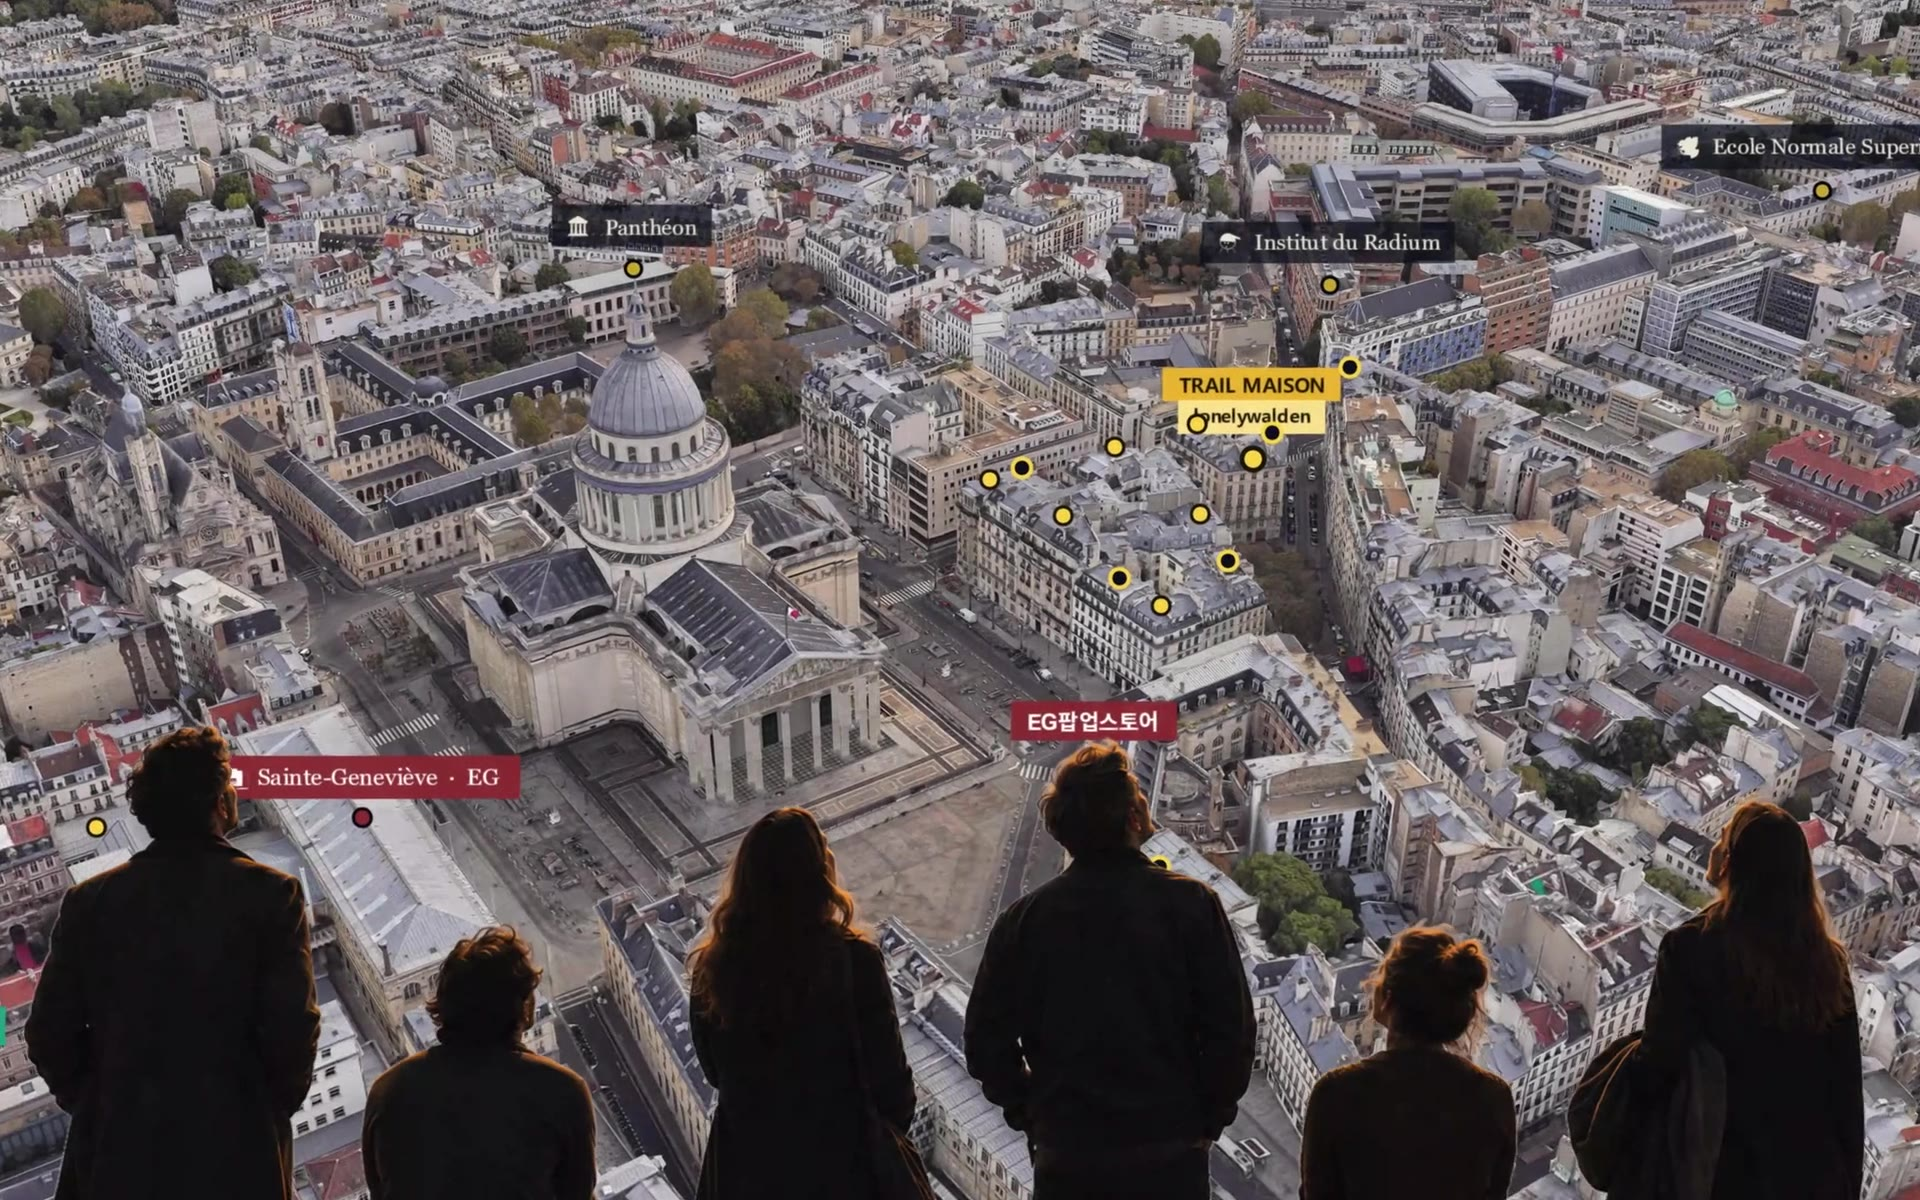
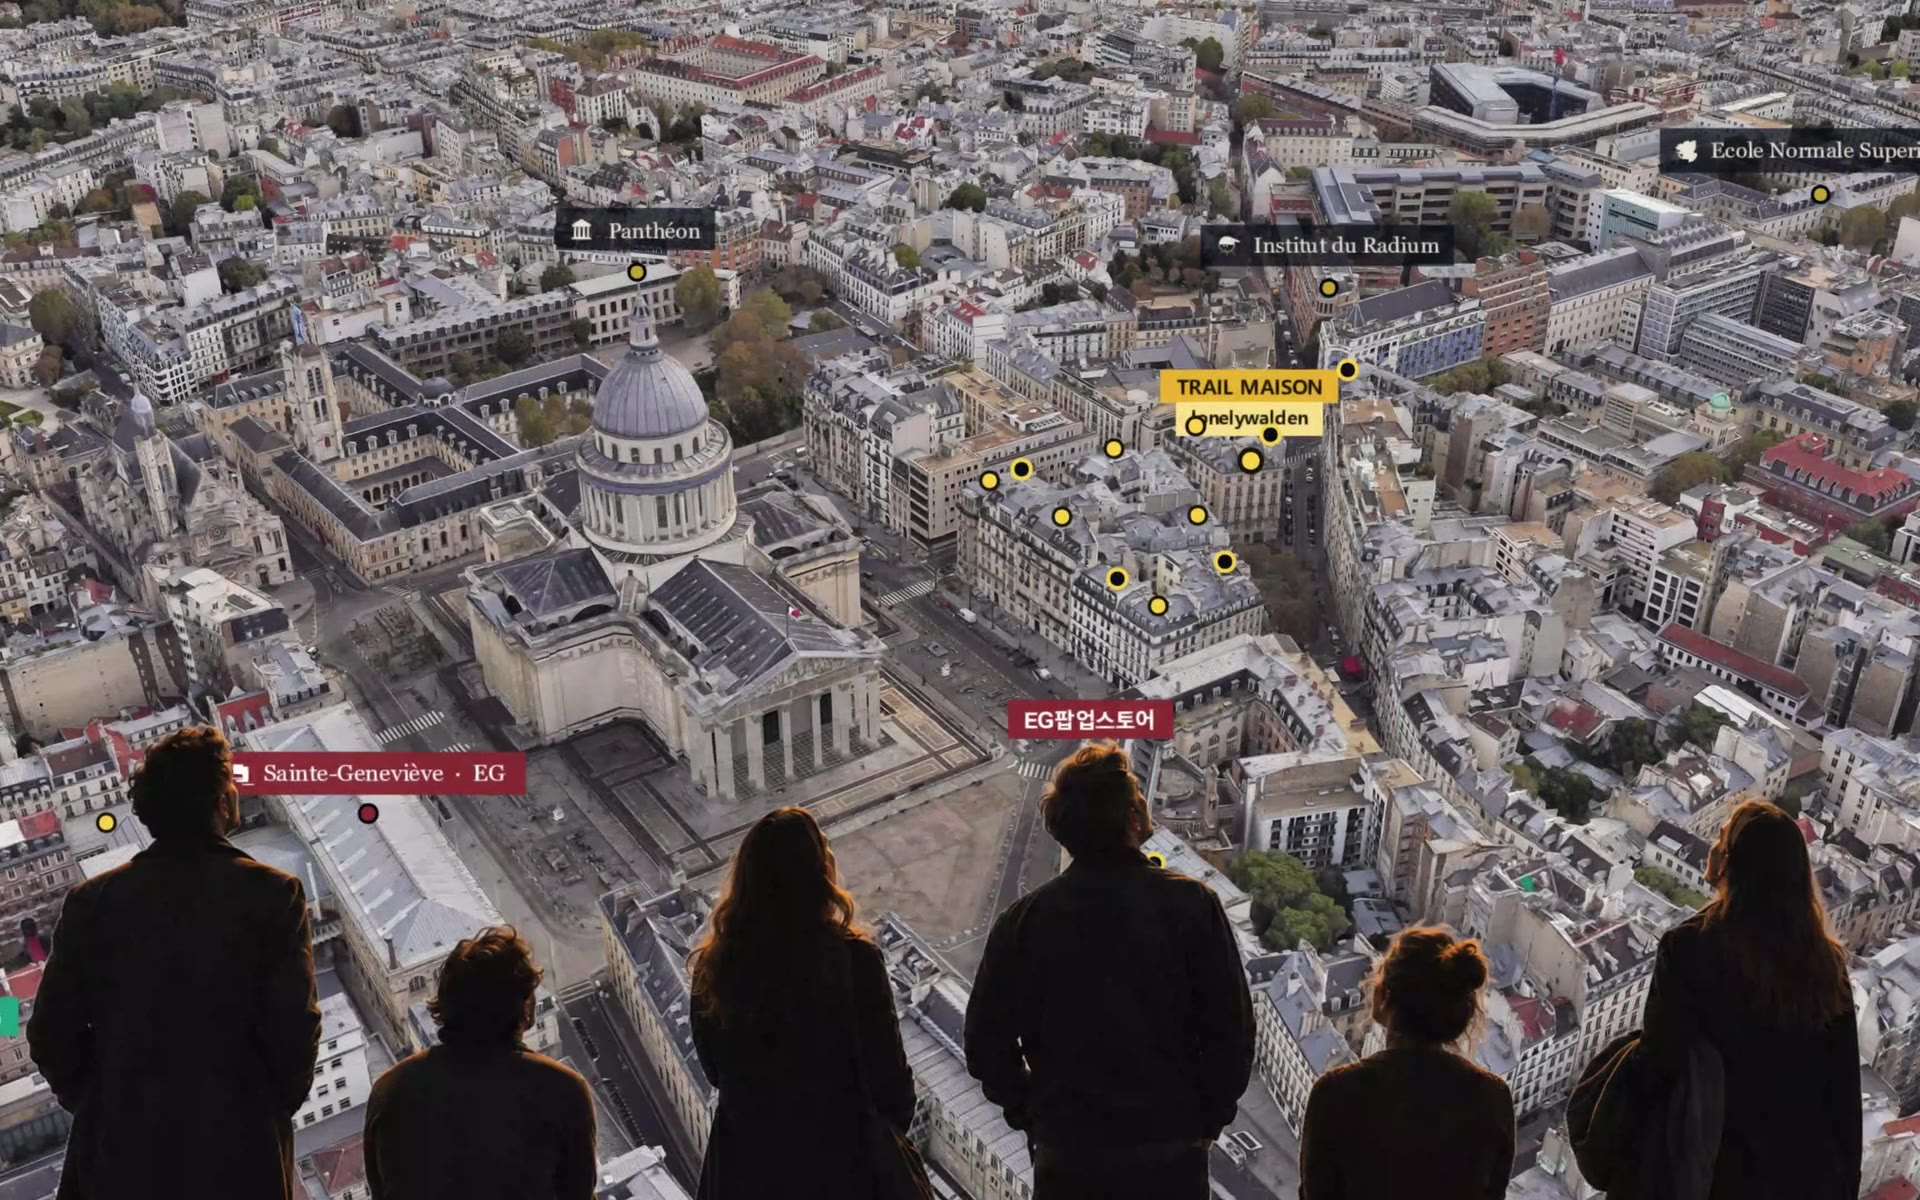
현관 첫 화면 영상 — 처음 켜질 때만 앞 0.27초(검은 페이드인)를 건너뛰어 시작 · 포스터를 그 장면으로 다시 떠서 포스터 → 영상이 끊김 없이 · 한 바퀴 돌 때 어두워졌다 밝아지는 숨은 그대로 · 영상 파일은 그대로 · 포스터 꼬리표 ?v=1023 (1023 저녁 소로 콜 · 파이원 — home.html 은 본 창 몫이라 알림)
Claude-Session: https://claude.ai/code/session_01NL79ZGmpMw2bXnwga4sCkw

diff --git a/home.html b/home.html
@@ -11,7 +11,7 @@
 <link rel="preconnect" href="https://fonts.googleapis.com">
 <link rel="preconnect" href="https://fonts.gstatic.com" crossorigin>
 <link rel="stylesheet" href="https://fonts.googleapis.com/css2?family=Noto+Serif+KR:wght@300;400;500&display=swap">
-<link rel="preload" as="image" href="media/eg_home_hero_poster.jpg?v=1017b">
+<link rel="preload" as="image" href="media/eg_home_hero_poster.jpg?v=1023">
 <link rel="stylesheet" href="site.css?v=1020h">
 <style>
 /* ── EG 홈페이지 (1017) ───────────────────────────────────────
@@ -40,7 +40,7 @@ body{font-family:'Pretendard',-apple-system,'Apple SD Gothic Neo','Noto Sans KR'
 
 /* ── ① 후킹 층 ─────────────────────────────────────── */
 .hero{position:relative;height:100vh;height:100svh;min-height:420px;overflow:hidden;
-  background:var(--ink) url('media/eg_home_hero_poster.jpg?v=1017b') center/cover no-repeat}
+  background:var(--ink) url('media/eg_home_hero_poster.jpg?v=1023') center/cover no-repeat}
 .hero video{position:absolute;inset:0;width:100%;height:100%;object-fit:cover;object-position:50% 50%}
 /* 글자가 읽히도록 아래·위만 살짝 어둡게 — 영상 자체는 손대지 않는다 */
 .hero::after{content:'';position:absolute;inset:0;pointer-events:none;
@@ -211,7 +211,7 @@ body{font-family:'Pretendard',-apple-system,'Apple SD Gothic Neo','Noto Sans KR'
 
 <header class="hero" aria-label="EG유니버스 소개 영상">
   <video id="hero" muted playsinline autoplay loop preload="auto"
-         poster="media/eg_home_hero_poster.jpg?v=1017b" aria-hidden="true"></video>
+         poster="media/eg_home_hero_poster.jpg?v=1023" aria-hidden="true"></video>
   <div class="plate">
     <b>EG유니버스</b>
     <span>2026년 12월 25일(금) 개관</span>
@@ -370,6 +370,12 @@ const credit = document.getElementById('credit');
 /* 폰은 가벼운 판, 넓은 화면은 1920 판 */
 v.src = (Math.max(screen.width, screen.height) * (window.devicePixelRatio || 1) > 2000 && window.innerWidth > 900)
   ? 'media/eg_home_hero_1920.mp4?v=1017b' : 'media/eg_home_hero_1280.mp4?v=1017b';
+/* 1023 파이원 — 영상 첫 0.27초는 검은 페이드인이라, 처음 켜질 때만 그 뒤에서 시작한다(포스터 = 그 장면 · 포스터 → 영상이 끊김 없이).
+   한 바퀴 돌아 처음으로 갈 때의 어두워졌다 밝아지는 숨은 그대로 둔다(소로 「껌뻑 하는 거 보기 흉함」). */
+v.addEventListener('loadedmetadata', function skipFade(){
+  v.removeEventListener('loadedmetadata', skipFade);
+  try { if (v.currentTime < 0.27) v.currentTime = 0.27; } catch(e){}
+});
 
 let cur = -1, swapTimer = 0;
 function cutAt(time){
